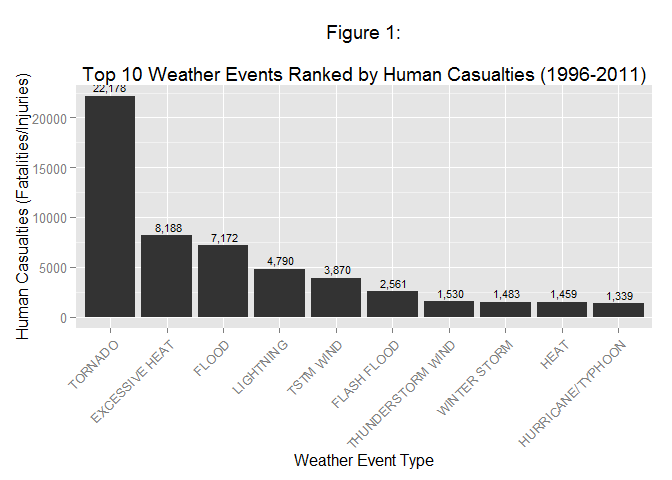
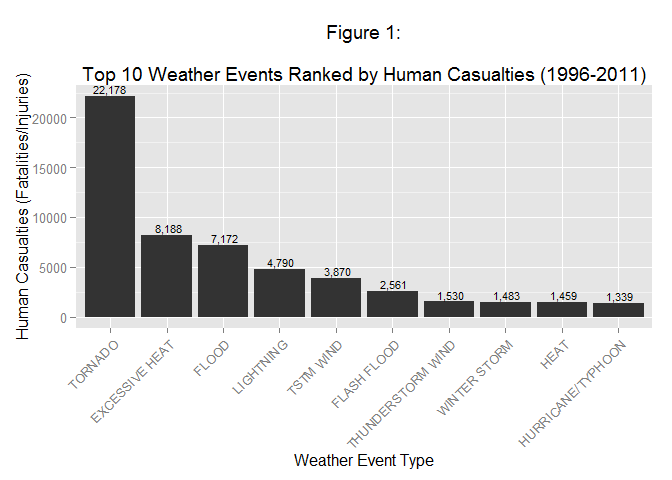
Initial commit

diff --git a/Project2/NOAA_Storm_Database_Analysis.html b/Project2/NOAA_Storm_Database_Analysis.html
@@ -157,13 +157,13 @@ plot1 &lt;- qplot(
     geom_text(
         aes(
             label = format(cData$casualties, big.mark = &quot;,&quot;)
-            ,vjust = -.5
+            ,vjust = -.3
         )
         ,size = 3
     )
 
 print(plot1)</code></pre>
[2 lines of base64/hex data omitted]
 <p>Figure 1 plots the top 10 weather event types ranked by the human casualties (fatalities and injuries) inflicted by them in the United States from 1996-2011 as described in the <em>Data Processing</em> section above. The top two ranking weather event types (TORNADO and EXCESSIVE HEAT) outweigh the casualties caused by the trailing eight weather event types combined.</p>
 <pre class="r"><code>## 2. Across the United States, which types of events have the greatest economic
 ## consequences?

diff --git a/Project2/NOAA_Storm_Database_Analysis.md b/Project2/NOAA_Storm_Database_Analysis.md
@@ -145,7 +145,7 @@ plot1 <- qplot(
     geom_text(
         aes(
             label = format(cData$casualties, big.mark = ",")
-            ,vjust = -.5
+            ,vjust = -.3
         )
         ,size = 3
     )
